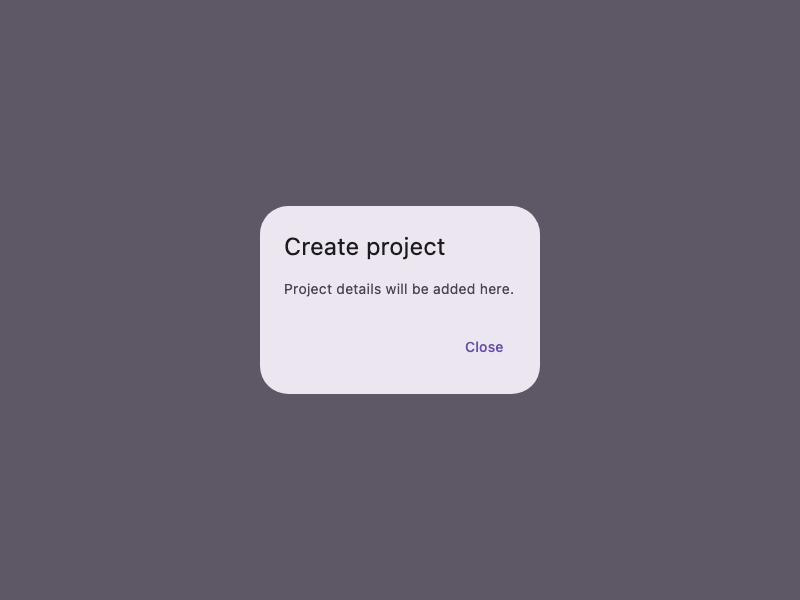
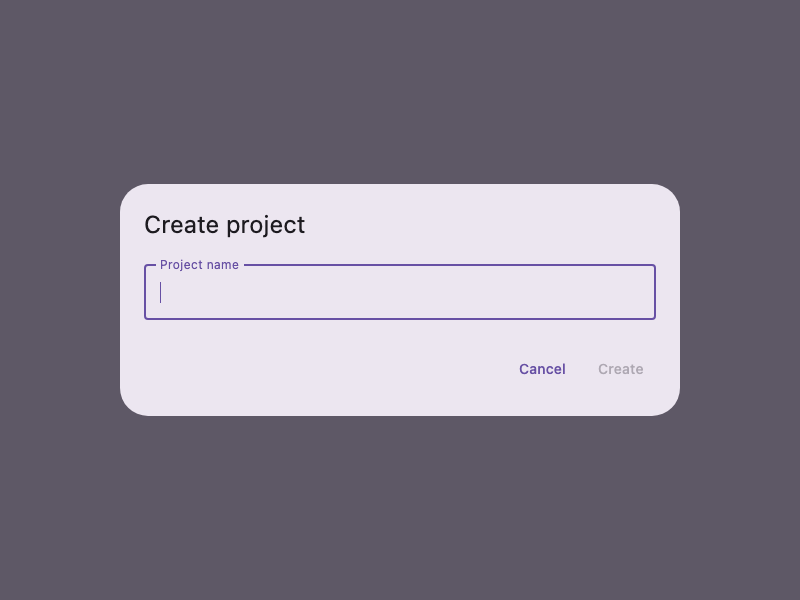
feat: add project editor form and shared string resources
- add project name validation and close-on-confirm behavior
- move English UI strings to Compose Multiplatform resources
- reuse string resources in tests via getTestString
- add editor UI tests and filled-dialog golden

Changed region(s): [[0.125, 0.3, 0.875, 0.72], [0.5625, 0.57, 0.625, 0.6]]

diff --git a/shared/src/jvmTest/kotlin/ankideckbuilder/ui/compose/projects/editor/EditorContentTest.kt b/shared/src/jvmTest/kotlin/ankideckbuilder/ui/compose/projects/editor/EditorContentTest.kt
@@ -1,0 +1,83 @@
+package ankideckbuilder.ui.compose.projects.editor
+
+import androidx.compose.ui.test.ExperimentalTestApi
+import androidx.compose.ui.test.assertIsDisplayed
+import androidx.compose.ui.test.assertIsEnabled
+import androidx.compose.ui.test.assertIsFocused
+import androidx.compose.ui.test.assertIsNotEnabled
+import androidx.compose.ui.test.onNodeWithText
+import androidx.compose.ui.test.performClick
+import androidx.compose.ui.test.performTextReplacement
+import androidx.compose.ui.test.v2.runComposeUiTest
+import ankideckbuilder.shared.generated.resources.Res
+import ankideckbuilder.shared.generated.resources.action_create
+import ankideckbuilder.shared.generated.resources.action_save
+import ankideckbuilder.shared.generated.resources.project_editor_edit_title
+import ankideckbuilder.shared.generated.resources.project_name
+import ankideckbuilder.testing.getTestString
+import ankideckbuilder.ui.components.projects.editor.TestEditorComponent
+import kotlin.test.Test
+import kotlin.test.assertEquals
+import kotlin.test.assertTrue
+
+private const val PROJECT_NAME = "Test Project"
+private const val UPDATED_PROJECT_NAME = "Updated Test Project"
+
+@OptIn(ExperimentalTestApi::class)
+class EditorContentTest {
+    private val projectNameLabel = getTestString(Res.string.project_name)
+    private val createLabel = getTestString(Res.string.action_create)
+    private val saveLabel = getTestString(Res.string.action_save)
+    private val editTitle = getTestString(Res.string.project_editor_edit_title)
+
+    @Test
+    fun validatesAndTrimsProjectName() = runComposeUiTest {
+        var savedName: String? = null
+        setContent {
+            EditorContent(TestEditorComponent(), onSave = { savedName = it })
+        }
+
+        onNodeWithText(projectNameLabel).assertIsFocused()
+        onNodeWithText(createLabel).assertIsNotEnabled()
+        onNodeWithText(projectNameLabel).performTextReplacement("   ")
+        onNodeWithText(createLabel).assertIsNotEnabled()
+        onNodeWithText(projectNameLabel).performTextReplacement("  $PROJECT_NAME  ")
+        onNodeWithText(createLabel).performClick()
+        assertEquals(PROJECT_NAME, savedName)
+    }
+
+    @Test
+    fun editsExistingProjectName() = runComposeUiTest {
+        var savedName: String? = null
+        setContent {
+            EditorContent(
+                TestEditorComponent(),
+                initialName = PROJECT_NAME,
+                onSave = { savedName = it },
+            )
+        }
+
+        onNodeWithText(editTitle).assertIsDisplayed()
+        onNodeWithText(PROJECT_NAME).assertIsDisplayed()
+        onNodeWithText(projectNameLabel).performTextReplacement(UPDATED_PROJECT_NAME)
+        onNodeWithText(saveLabel).performClick()
+        assertEquals(UPDATED_PROJECT_NAME, savedName)
+    }
+
+    @Test
+    fun closesWithSingleNonWhitespaceCharacter() = runComposeUiTest {
+        var closed = false
+        setContent { EditorContent(TestEditorComponent { closed = true }) }
+
+        onNodeWithText(createLabel).assertIsNotEnabled()
+        onNodeWithText(projectNameLabel).performTextReplacement("   ")
+        onNodeWithText(createLabel).assertIsNotEnabled()
+        onNodeWithText(projectNameLabel).performTextReplacement(" ! ")
+        onNodeWithText(createLabel).assertIsEnabled()
+        onNodeWithText(projectNameLabel).performTextReplacement("")
+        onNodeWithText(createLabel).assertIsNotEnabled()
+        onNodeWithText(projectNameLabel).performTextReplacement("!")
+        onNodeWithText(createLabel).performClick()
+        assertTrue(closed)
+    }
+}

diff --git a/shared/src/commonMain/kotlin/ankideckbuilder/ui/compose/projects/editor/EditorContent.kt b/shared/src/commonMain/kotlin/ankideckbuilder/ui/compose/projects/editor/EditorContent.kt
@@ -1,20 +1,80 @@
 package ankideckbuilder.ui.compose.projects.editor
 
+import androidx.compose.foundation.layout.fillMaxWidth
 import androidx.compose.material3.AlertDialog
+import androidx.compose.material3.OutlinedTextField
 import androidx.compose.material3.Text
 import androidx.compose.material3.TextButton
 import androidx.compose.runtime.Composable
+import androidx.compose.runtime.LaunchedEffect
+import androidx.compose.runtime.getValue
+import androidx.compose.runtime.mutableStateOf
+import androidx.compose.runtime.remember
+import androidx.compose.runtime.saveable.rememberSaveable
+import androidx.compose.runtime.setValue
+import androidx.compose.ui.Modifier
+import androidx.compose.ui.focus.FocusRequester
+import androidx.compose.ui.focus.focusRequester
+import androidx.compose.ui.platform.testTag
+import ankideckbuilder.shared.generated.resources.Res
+import ankideckbuilder.shared.generated.resources.action_cancel
+import ankideckbuilder.shared.generated.resources.action_create
+import ankideckbuilder.shared.generated.resources.action_save
+import ankideckbuilder.shared.generated.resources.project_editor_create_title
+import ankideckbuilder.shared.generated.resources.project_editor_edit_title
+import ankideckbuilder.shared.generated.resources.project_name
 import ankideckbuilder.ui.components.projects.editor.EditorComponent
+import org.jetbrains.compose.resources.stringResource
+
+internal const val PROJECT_EDITOR_TAG = "projects.editor"
 
 @Composable
-fun EditorContent(component: EditorComponent) {
+fun EditorContent(
+    component: EditorComponent,
+    initialName: String? = null,
+    onSave: (String) -> Unit = { component.onClose() },
+) {
+    var name by rememberSaveable(initialName) { mutableStateOf(initialName.orEmpty()) }
+    val focusRequester = remember { FocusRequester() }
+    val isEditing = initialName != null
+    val title = stringResource(
+        if (isEditing) {
+            Res.string.project_editor_edit_title
+        } else {
+            Res.string.project_editor_create_title
+        },
+    )
+    val projectNameLabel = stringResource(Res.string.project_name)
+    val confirmLabel = stringResource(
+        if (isEditing) Res.string.action_save else Res.string.action_create,
+    )
+    val cancelLabel = stringResource(Res.string.action_cancel)
+
     AlertDialog(
         onDismissRequest = component::onClose,
-        title = { Text("Create project") },
-        text = { Text("Project details will be added here.") },
+        modifier = Modifier.testTag(PROJECT_EDITOR_TAG),
+        title = { Text(title) },
+        text = {
+            OutlinedTextField(
+                value = name,
+                onValueChange = { name = it },
+                modifier = Modifier.fillMaxWidth().focusRequester(focusRequester),
+                label = { Text(projectNameLabel) },
+                singleLine = true,
+            )
+            LaunchedEffect(Unit) { focusRequester.requestFocus() }
+        },
         confirmButton = {
+            TextButton(
+                onClick = { onSave(name.trim()) },
+                enabled = name.isNotBlank(),
+            ) {
+                Text(confirmLabel)
+            }
+        },
+        dismissButton = {
             TextButton(onClick = component::onClose) {
-                Text("Close")
+                Text(cancelLabel)
             }
         },
     )

diff --git a/shared/src/jvmTest/kotlin/ankideckbuilder/ui/compose/projects/ProjectsContentTest.kt b/shared/src/jvmTest/kotlin/ankideckbuilder/ui/compose/projects/ProjectsContentTest.kt
@@ -5,22 +5,31 @@ import androidx.compose.ui.test.assertIsDisplayed
 import androidx.compose.ui.test.onNodeWithText
 import androidx.compose.ui.test.performClick
 import androidx.compose.ui.test.v2.runComposeUiTest
+import ankideckbuilder.shared.generated.resources.Res
+import ankideckbuilder.shared.generated.resources.action_cancel
+import ankideckbuilder.shared.generated.resources.project_editor_create_title
+import ankideckbuilder.shared.generated.resources.projects_add
+import ankideckbuilder.testing.getTestString
 import ankideckbuilder.ui.components.projects.TestProjectsComponent
 import kotlin.test.Test
 
 class ProjectsContentTest {
+    private val createTitle = getTestString(Res.string.project_editor_create_title)
+    private val addProjectLabel = getTestString(Res.string.projects_add)
+    private val cancelLabel = getTestString(Res.string.action_cancel)
+
     @OptIn(ExperimentalTestApi::class)
     @Test
     fun displaysAndClosesEditorFromSlot() = runComposeUiTest {
         val component = TestProjectsComponent()
         setContent { ProjectsContent(component) }
 
-        onNodeWithText("Create project").assertDoesNotExist()
-        onNodeWithText("Add Project").performClick()
-        onNodeWithText("Create project").assertIsDisplayed()
-        onNodeWithText("Close").performClick()
-        onNodeWithText("Create project").assertDoesNotExist()
-        onNodeWithText("Add Project").assertIsDisplayed()
+        onNodeWithText(createTitle).assertDoesNotExist()
+        onNodeWithText(addProjectLabel).performClick()
+        onNodeWithText(createTitle).assertIsDisplayed()
+        onNodeWithText(cancelLabel).performClick()
+        onNodeWithText(createTitle).assertDoesNotExist()
+        onNodeWithText(addProjectLabel).assertIsDisplayed()
     }
 
     @OptIn(ExperimentalTestApi::class)
@@ -29,10 +38,10 @@ class ProjectsContentTest {
         val component = TestProjectsComponent(editorInitiallyOpen = true)
         setContent { ProjectsContent(component) }
 
-        onNodeWithText("Create project").assertIsDisplayed()
-        onNodeWithText("Close").performClick()
-        onNodeWithText("Create project").assertDoesNotExist()
-        onNodeWithText("Add Project").performClick()
-        onNodeWithText("Create project").assertIsDisplayed()
+        onNodeWithText(createTitle).assertIsDisplayed()
+        onNodeWithText(cancelLabel).performClick()
+        onNodeWithText(createTitle).assertDoesNotExist()
+        onNodeWithText(addProjectLabel).performClick()
+        onNodeWithText(createTitle).assertIsDisplayed()
     }
 }

diff --git a/shared/src/jvmTest/kotlin/ankideckbuilder/database/AppDatabaseTest.kt b/shared/src/jvmTest/kotlin/ankideckbuilder/database/AppDatabaseTest.kt
@@ -21,6 +21,10 @@ import org.junit.Before
 import org.junit.Rule
 import org.junit.rules.TemporaryFolder
 
+private const val PROJECT_NAME = "Test Project"
+private const val SECOND_PROJECT_NAME = "Second Test Project"
+private const val UPDATED_PROJECT_NAME = "Updated Test Project"
+
 class AppDatabaseTest {
     @get:Rule
     val temporaryFolder = TemporaryFolder()
@@ -40,7 +44,7 @@ class AppDatabaseTest {
         }
     }
 
-    private fun entity(name: String = "Marine", updatedAt: Long = 1_000L) = ProjectEntity(
+    private fun entity(name: String = PROJECT_NAME, updatedAt: Long = 1_000L) = ProjectEntity(
         name = name,
         createdAtEpochMilliseconds = 500L,
         updatedAtEpochMilliseconds = updatedAt,
@@ -51,9 +55,9 @@ class AppDatabaseTest {
         val dao = database.projectDao()
         assertNull(dao.findById(99L))
         val firstId = dao.insert(entity())
-        val secondId = dao.insert(entity("Navigation"))
+        val secondId = dao.insert(entity(SECOND_PROJECT_NAME))
         assertNotEquals(firstId, secondId)
-        val updated = entity("Updated", 2_000L).copy(id = firstId)
+        val updated = entity(UPDATED_PROJECT_NAME, 2_000L).copy(id = firstId)
         dao.update(updated)
         assertEquals(updated, dao.findById(firstId))
         dao.delete(updated)
@@ -90,7 +94,7 @@ class AppDatabaseTest {
                 val project = entity()
                 val stored = project.copy(id = dao.insert(project))
                 assertEquals(listOf(stored), values.receive())
-                val updated = stored.copy(name = "Updated")
+                val updated = stored.copy(name = UPDATED_PROJECT_NAME)
                 dao.update(updated)
                 assertEquals(listOf(updated), values.receive())
                 dao.delete(updated)
@@ -125,7 +129,7 @@ class AppDatabaseTest {
     fun storesAndObservesProjects() = runBlocking {
         val timestamp = Instant.fromEpochMilliseconds(1_000L)
         val project = Project(
-            name = "Marine English for Sailors",
+            name = PROJECT_NAME,
             createdAt = timestamp,
             updatedAt = timestamp,
         )

diff --git a/shared/src/commonMain/kotlin/ankideckbuilder/ui/compose/projects/ProjectsContent.kt b/shared/src/commonMain/kotlin/ankideckbuilder/ui/compose/projects/ProjectsContent.kt
@@ -14,13 +14,17 @@ import androidx.compose.runtime.getValue
 import androidx.compose.ui.Alignment
 import androidx.compose.ui.Modifier
 import androidx.compose.ui.platform.testTag
+import ankideckbuilder.shared.generated.resources.Res
+import ankideckbuilder.shared.generated.resources.projects_add
+import ankideckbuilder.shared.generated.resources.projects_empty
 import ankideckbuilder.ui.components.projects.ProjectsComponent
 import ankideckbuilder.ui.components.projects.UiState.NoProjects
 import ankideckbuilder.ui.compose.projects.editor.EditorContent
 import ankideckbuilder.ui.theme.Spacing
 import com.arkivanov.decompose.extensions.compose.subscribeAsState
+import org.jetbrains.compose.resources.stringResource
 
-const val PROJECTS_SCREEN_TAG = "projects.screen"
+internal const val PROJECTS_SCREEN_TAG = "projects.screen"
 
 @Composable
 fun ProjectsContent(component: ProjectsComponent) {
@@ -38,6 +42,9 @@ fun ProjectsContent(component: ProjectsComponent) {
 
 @Composable
 private fun NoProjectsContent(onAddProject: () -> Unit) {
+    val emptyMessage = stringResource(Res.string.projects_empty)
+    val addProjectLabel = stringResource(Res.string.projects_add)
+
     Column(
         modifier = Modifier
             .background(MaterialTheme.colorScheme.primaryContainer)
@@ -49,9 +56,9 @@ private fun NoProjectsContent(onAddProject: () -> Unit) {
             alignment = Alignment.CenterVertically,
         ),
     ) {
-        Text("You have not any projects yet")
+        Text(emptyMessage)
         Button(onClick = onAddProject) {
-            Text("Add Project")
+            Text(addProjectLabel)
         }
     }
 }

diff --git a/shared/src/jvmTest/kotlin/ankideckbuilder/ui/compose/application/RootContentTest.kt b/shared/src/jvmTest/kotlin/ankideckbuilder/ui/compose/application/RootContentTest.kt
@@ -5,12 +5,19 @@ import androidx.compose.ui.test.assertIsDisplayed
 import androidx.compose.ui.test.onNodeWithText
 import androidx.compose.ui.test.performClick
 import androidx.compose.ui.test.v2.runComposeUiTest
+import ankideckbuilder.shared.generated.resources.Res
+import ankideckbuilder.shared.generated.resources.projects_add
+import ankideckbuilder.shared.generated.resources.projects_empty
+import ankideckbuilder.testing.getTestString
 import ankideckbuilder.ui.components.application.TestRootComponent
 import ankideckbuilder.ui.components.projects.TestProjectsComponent
 import kotlin.test.Test
 import kotlin.test.assertEquals
 
 class RootContentTest {
+    private val emptyMessage = getTestString(Res.string.projects_empty)
+    private val addProjectLabel = getTestString(Res.string.projects_add)
+
     @OptIn(ExperimentalTestApi::class)
     @Test
     fun displaysProjectsAndDeliversAddProjectClick() = runComposeUiTest {
@@ -18,9 +25,9 @@ class RootContentTest {
         val projects = TestProjectsComponent(onAddProjectClick = { clicks++ })
         val root = TestRootComponent(projects)
         setContent { RootContent(root) }
-        onNodeWithText("You have not any projects yet").assertIsDisplayed()
-        onNodeWithText("Add Project").assertIsDisplayed()
-        onNodeWithText("Add Project").performClick()
+        onNodeWithText(emptyMessage).assertIsDisplayed()
+        onNodeWithText(addProjectLabel).assertIsDisplayed()
+        onNodeWithText(addProjectLabel).performClick()
         runOnIdle { assertEquals(1, clicks) }
     }
 }

diff --git a/shared/src/jvmTest/kotlin/ankideckbuilder/ui/compose/projects/editor/EditorContentScreenshotTest.kt b/shared/src/jvmTest/kotlin/ankideckbuilder/ui/compose/projects/editor/EditorContentScreenshotTest.kt
@@ -1,0 +1,26 @@
+package ankideckbuilder.ui.compose.projects.editor
+
+import androidx.compose.ui.test.ExperimentalTestApi
+import androidx.compose.ui.test.onNodeWithText
+import androidx.compose.ui.test.performTextReplacement
+import ankideckbuilder.shared.generated.resources.Res
+import ankideckbuilder.shared.generated.resources.project_name
+import ankideckbuilder.testing.GoldenScreenshotTest
+import ankideckbuilder.ui.components.projects.editor.TestEditorComponent
+import kotlin.test.Test
+import org.jetbrains.compose.resources.getString
+
+private const val PROJECT_NAME = "Test Project"
+
+@OptIn(ExperimentalTestApi::class)
+class EditorContentScreenshotTest : GoldenScreenshotTest() {
+    @Test
+    fun filledProjectNameMatchesReference() = runDesktopComposeUiTest {
+        val component = TestEditorComponent()
+        val projectNameLabel = getString(Res.string.project_name)
+        setGoldenContent(this) { EditorContent(component) }
+
+        onNodeWithText(projectNameLabel).performTextReplacement(PROJECT_NAME)
+        captureGolden(this, captureTag = PROJECT_EDITOR_TAG)
+    }
+}

diff --git a/shared/src/jvmTest/kotlin/ankideckbuilder/testing/TestHelpers.kt b/shared/src/jvmTest/kotlin/ankideckbuilder/testing/TestHelpers.kt
@@ -1,0 +1,9 @@
+package ankideckbuilder.testing
+
+import kotlinx.coroutines.runBlocking
+import org.jetbrains.compose.resources.StringResource
+import org.jetbrains.compose.resources.getString
+
+fun getTestString(resource: StringResource): String = runBlocking {
+    getString(resource)
+}
